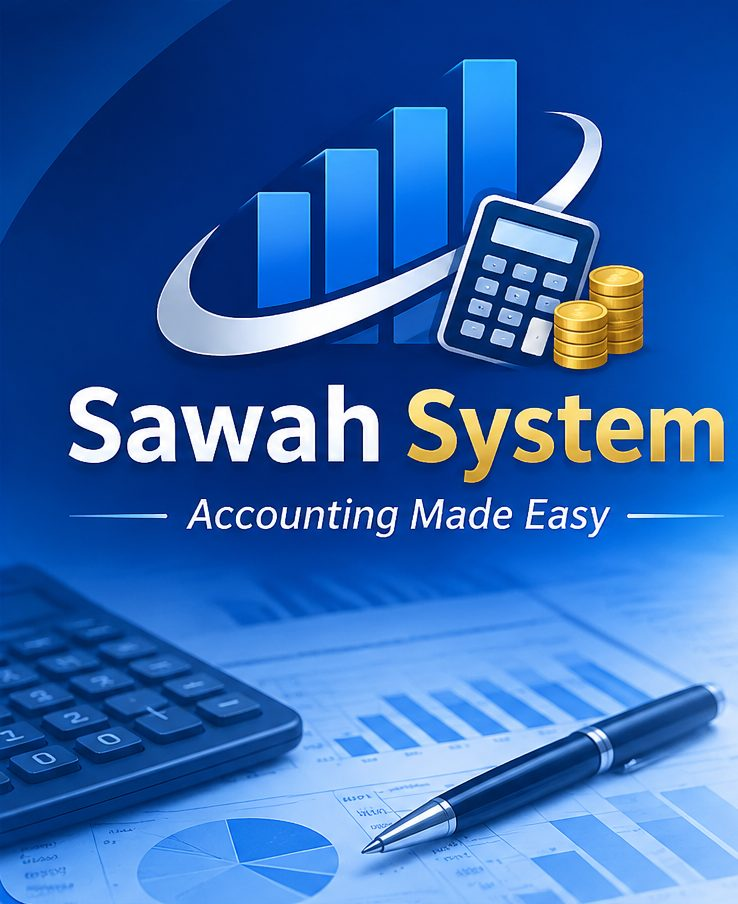
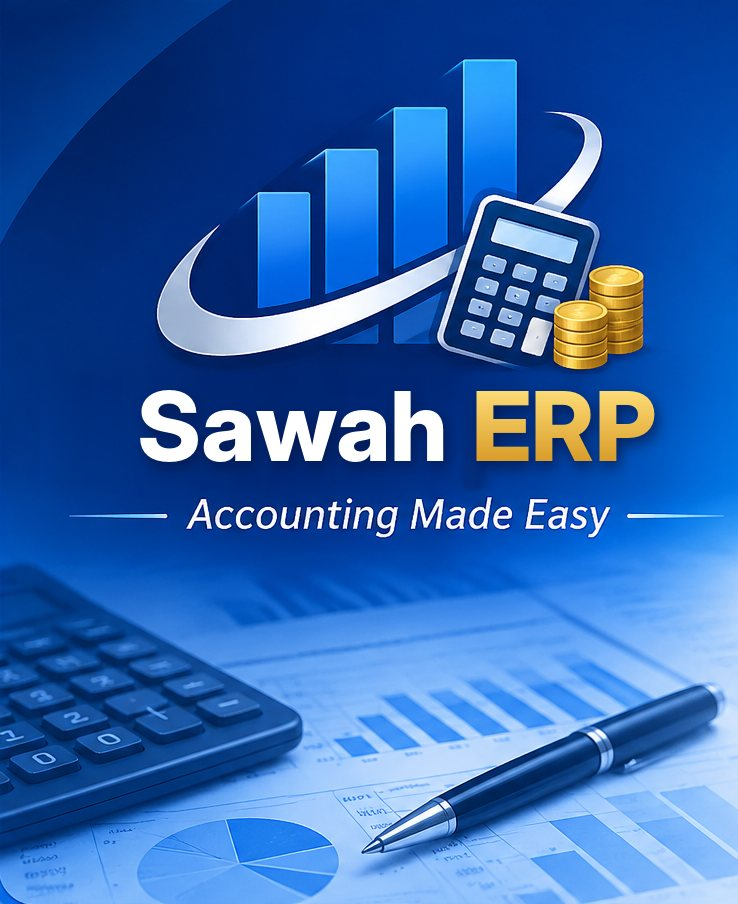
صورة شاشة الدخول: Sawah ERP بدل Sawah System
Claude-Session: https://claude.ai/code/session_01D26KBnwzXR4WuCdRfgiz42

Changed region(s): [[0.0935, 0.4027, 0.9973, 0.5575]]

diff --git a/android/mkhero.py b/android/mkhero.py
@@ -1,0 +1,44 @@
+#!/usr/bin/env python3
+"""صورة شاشة الدخول: تُقص من التصميم الأصلي ويُستبدل عنوان "Sawah System" بـ "Sawah ERP" بنفس الألوان والمكان.
+الاستخدام: python3 mkhero.py <صورة التصميم الأصلية> <ملف الإخراج login-hero.jpg>"""
+import sys
+from PIL import Image, ImageDraw, ImageFilter, ImageFont
+
+SRC, OUT = sys.argv[1], sys.argv[2]
+F = '/usr/share/fonts/opentype/inter/InterDisplay-ExtraBold.otf'
+hero = Image.open(SRC).convert('RGB').crop((14, 104, 752, 1008))
+W, H = hero.size
+
+# 1) مسح العنوان القديم: كل عمود يُعاد بناؤه بالتدرج بين لون ما فوق العنوان وما تحته
+Y0, Y1, X0, X1 = 378, 484, 40, W
+px = hero.load()
+for x in range(X0, X1):
+    a, b = px[x, Y0 - 1], px[x, Y1 + 1]
+    for y in range(Y0, Y1 + 1):
+        t = (y - Y0) / (Y1 - Y0)
+        px[x, y] = tuple(int(a[i] + (b[i] - a[i]) * t) for i in range(3))
+# تنعيم بسيط للمنطقة الممسوحة
+band = hero.crop((X0, Y0 - 4, X1, Y1 + 4)).filter(ImageFilter.GaussianBlur(3))
+hero.paste(band, (X0, Y0 - 4))
+
+# 2) كتابة العنوان الجديد: Sawah بالأبيض و ERP بالذهبي، بظل ناعم مثل الأصل
+font = ImageFont.truetype(F, 96)
+w1 = font.getbbox('Sawah')[2]; gap = 24; w2 = font.getbbox('ERP')[2]
+total = w1 + gap + w2
+cx = 396
+x = cx - total // 2; y = 368
+shadow = Image.new('L', (W, H), 0); sd = ImageDraw.Draw(shadow)
+sd.text((x + 3, y + 6), 'Sawah', font=font, fill=200); sd.text((x + w1 + gap + 3, y + 6), 'ERP', font=font, fill=200)
+hero.paste((4, 20, 70), (0, 0), shadow.filter(ImageFilter.GaussianBlur(7)))
+d = ImageDraw.Draw(hero)
+d.text((x, y), 'Sawah', font=font, fill=(255, 255, 255))
+# تدرج ذهبي لكلمة ERP
+gm = Image.new('L', (W, H), 0); ImageDraw.Draw(gm).text((x + w1 + gap, y), 'ERP', font=font, fill=255)
+gold = Image.new('RGB', (1, H))
+for yy in range(H):
+    t = min(1, max(0, (yy - (y + 20)) / 80))
+    top, bot = (255, 222, 120), (214, 150, 34)
+    gold.putpixel((0, yy), tuple(int(top[i] + (bot[i] - top[i]) * t) for i in range(3)))
+hero.paste(gold.resize((W, H)), (0, 0), gm)
+hero.save(OUT, quality=84, optimize=True, progressive=True)
+print('ok', OUT)
